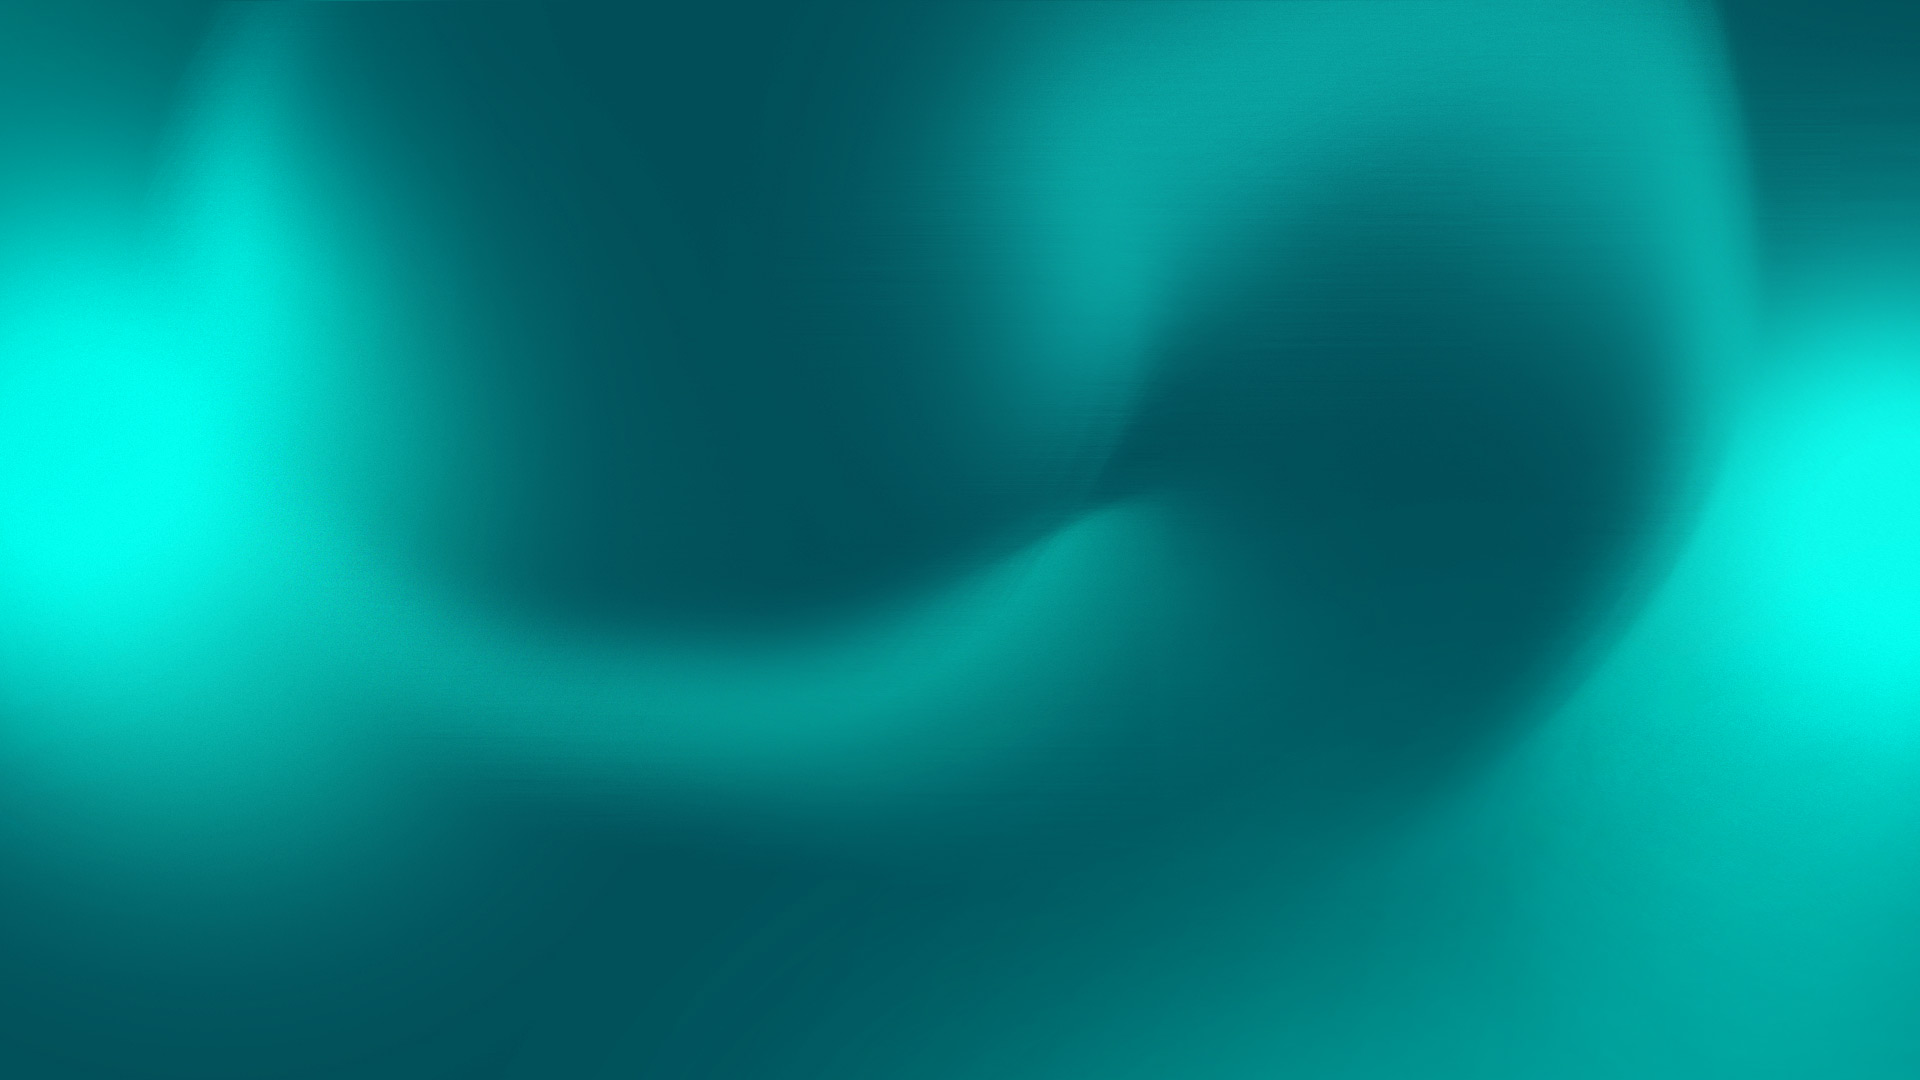
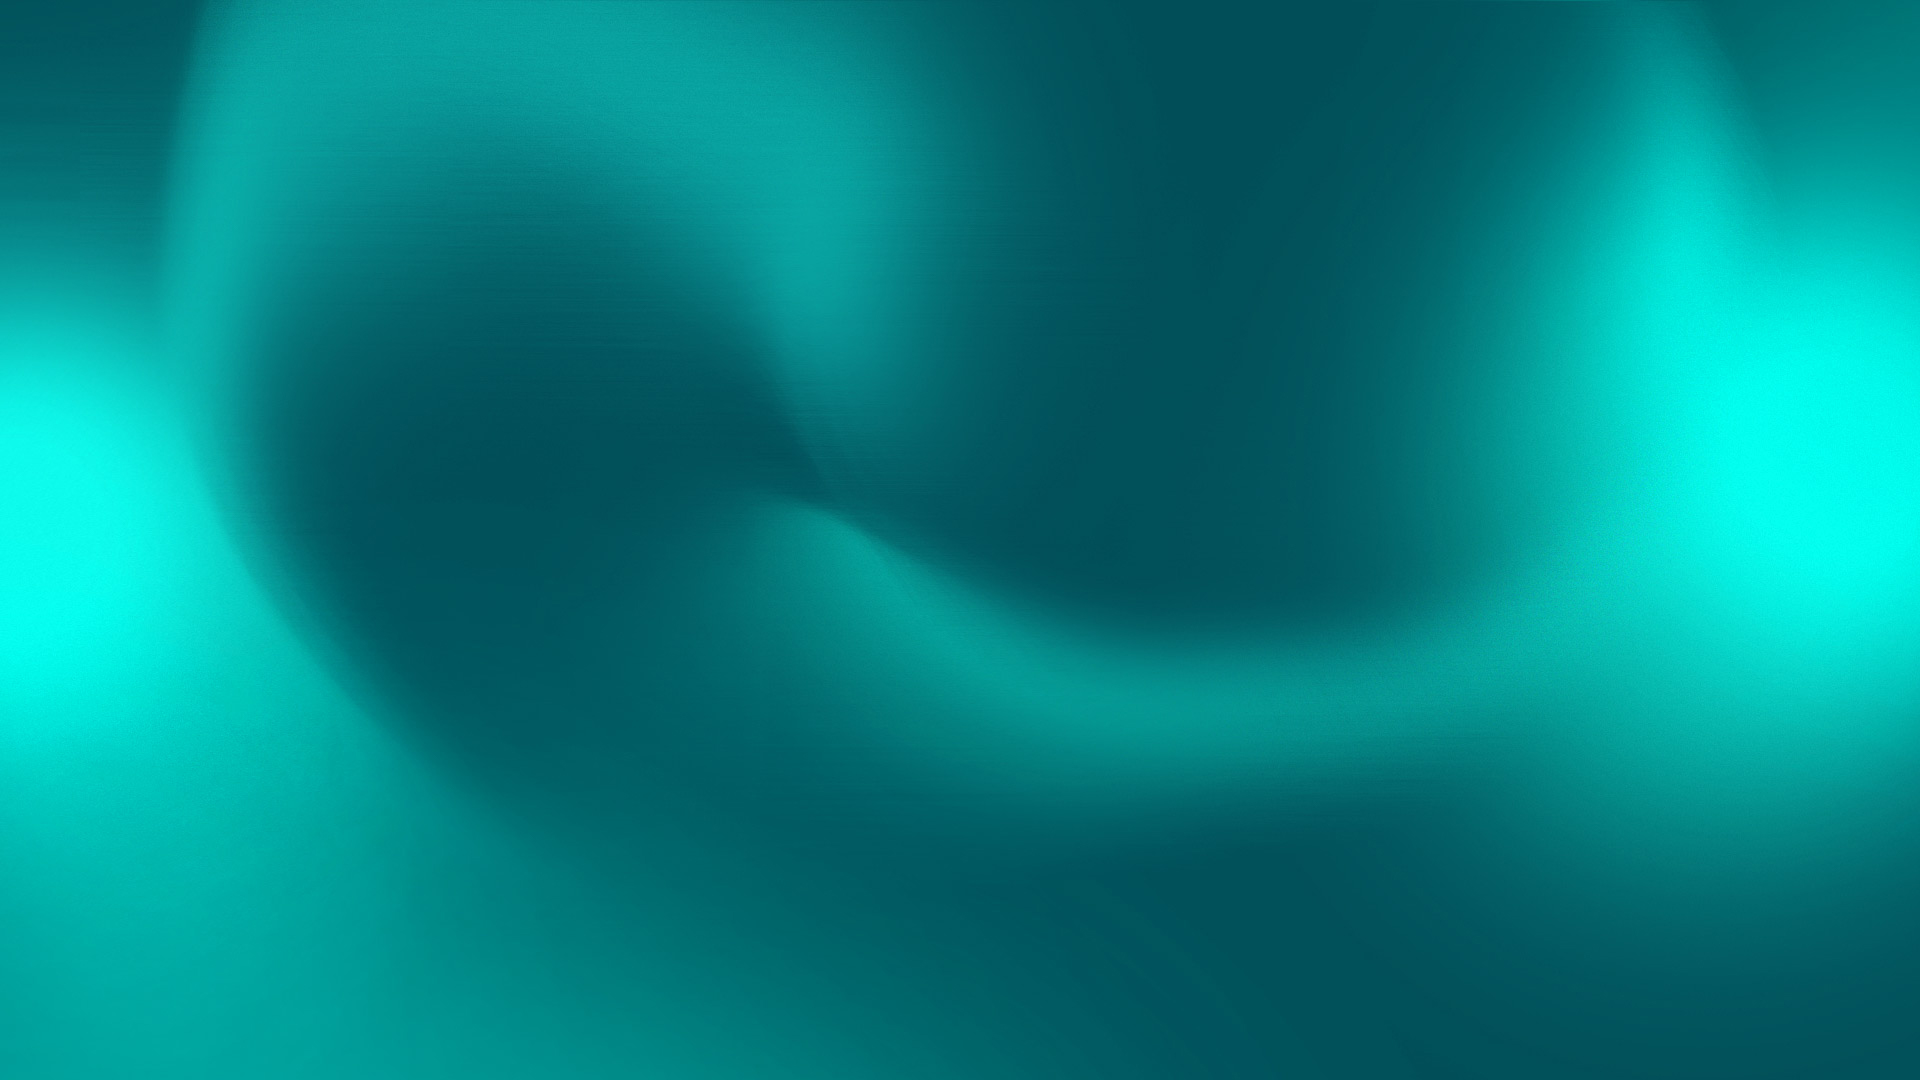
add animation and home section improvement

diff --git a/public/styles.css b/public/styles.css
@@ -29,11 +29,38 @@ section {
   display: inline-block;
 }
 
+.backgroundImage{
+  position: absolute;
+  z-index: -10;
+  width: 100%;
+  height: 100%;
+}
+
 .intro_text {
-  padding: 30vh 0 0 10vh;
-  font-family: "Mali", cursive;
+  position: absolute;
+  bottom: 24px;
+  left: 64px;
   font-size: 400%;
-  text-shadow: -2px -2px 4px #11f4e6;
+  color: #e6fefe;
+  text-shadow: -2px -2px 4px rgba(0, 0, 0, 0.5);
+}
+
+@keyframes phone {
+  0% {
+    opacity: 0;
+  }
+  20% {
+    opacity: 0;
+  }
+  50% {
+    opacity: 0.7;
+  }
+  80% {
+    opacity: 0;
+  }
+  100% {
+    opacity: 0.7;
+  }
 }
 
 .img_phone {
@@ -42,7 +69,22 @@ section {
   right: 10vh;
   height: 85vh;
   z-index: 2;
-  opacity: 0.7;
+  opacity: 0;
+  animation-name: phone;
+  animation-duration: 6s;
+  animation-fill-mode: forwards;
+}
+
+@keyframes browser {
+  0% {
+    opacity: 0;
+  }
+  40% {
+    opacity: 0;
+  }
+  100% {
+    opacity: 0.7;
+  }
 }
 
 .img_browser {
@@ -52,7 +94,11 @@ section {
   right: 30vh;
   height: 53vh;
   z-index: 3;
-  opacity: 0.9;
+  opacity: 0;
+  animation-name: browser;
+  animation-duration: 2.33s;
+  animation-delay: 2.1s;
+  animation-fill-mode: forwards;
 }
 
 /* DESPRIPTION */

diff --git a/src/components/Home.jsx b/src/components/Home.jsx
@@ -14,12 +14,8 @@ export default class Home extends Component {
   }
   render() {
     return (
-      <section
-        id="home"
-        style={{
-          backgroundImage: `url(${img_aurora})`,
-        }}
-      >
+      <section id="home">
+        <img className="backgroundImage" src={img_aurora} alt="backgroundImage"/>
         <h1 className="intro_text">
           Hello,
           <br />
